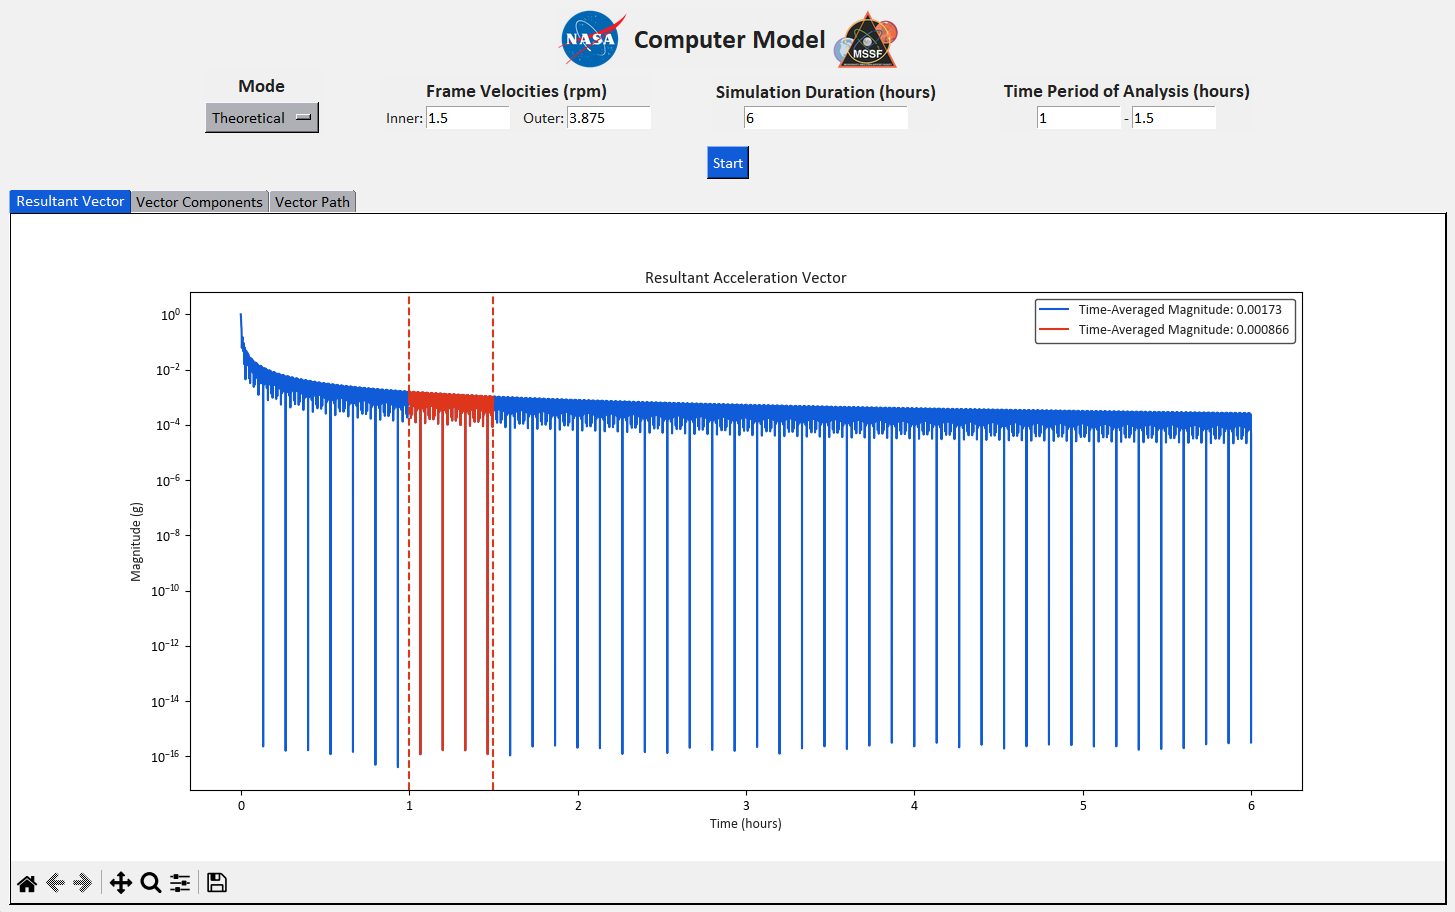
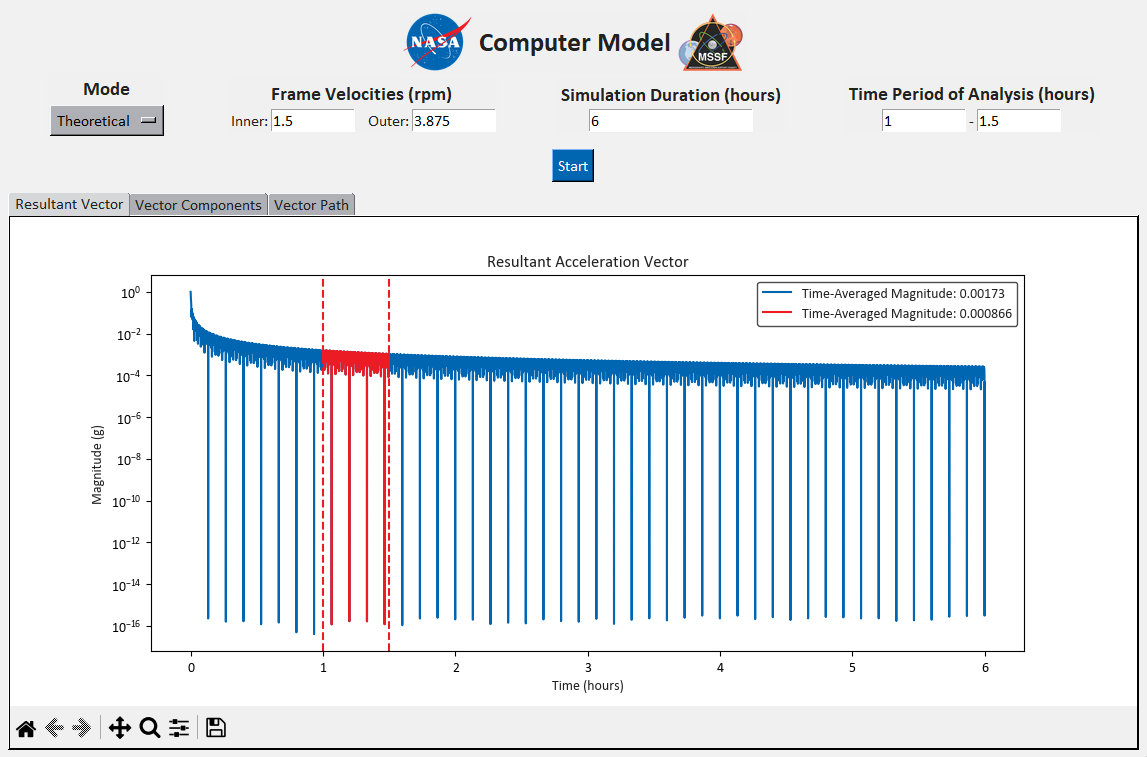
Updated colors

diff --git a/gui.py b/gui.py
@@ -137,7 +137,7 @@ class GUI:
         self.endAnalysis_entry_exp = tk.Entry(analysis_period_frame_exp, font=font_style, width=10)
         self.endAnalysis_entry_exp.pack(side=tk.LEFT)
 
-        self.submit_button = tk.Button(center_frame, text="Start", command=self.submit, font=font_style, bg="#105bd8", fg="#ffffff", activebackground="#007bff", activeforeground="#ffffff")
+        self.submit_button = tk.Button(center_frame, text="Start", command=self.submit, font=font_style, bg="#0066b2", fg="#ffffff", activebackground="#00a6d2", activeforeground="#ffffff")
         self.submit_button.grid(row=1, column=0, columnspan=4, pady=(10, 5))
 
         self.accelerometer_frame = tk.Frame(center_frame, padx=1, pady=1)
@@ -243,8 +243,8 @@ class GUI:
             "TNotebook": {"configure": {"tabmargins": [1, 0, 0, 0], "background": "#f1f1f1"}},
             "TNotebook.Tab": {
                 "configure": {"padding": [5, 1], "background": "#aeb0b5", "foreground": "#212121", "font": ("Calibri", 12), "focuscolor": ""},
-                "map": {"background": [("selected", "#105bd8")],
-                        "foreground": [("selected", "#ffffff")],
+                "map": {"background": [("selected", "#d6d7d9")],
+                        "foreground": [("selected", "#212121")],
                         "expand": [("selected", [1, 1, 1, 0])]}
             }
         })
@@ -369,18 +369,18 @@ class GUI:
         magnitude = np.sqrt(xTimeAvg**2 + yTimeAvg**2 + zTimeAvg**2)
         avgMagFull = np.mean(magnitude)
 
-        self.ax.plot(time_in_hours, magnitude, color='#105bd8', label="Time-Averaged Magnitude: " + f"{avgMagFull:.3g}")
+        self.ax.plot(time_in_hours, magnitude, color='#0066b2', label="Time-Averaged Magnitude: " + f"{avgMagFull:.3g}")
         self.ax.legend(edgecolor="#212121", labelcolor="#212121")
 
         if startAnalysis is not None and endAnalysis is not None:
             startSeg = next(i for i, t in enumerate(time_in_hours) if t >= startAnalysis)
             endSeg = next(i for i, t in enumerate(time_in_hours) if t >= endAnalysis)
 
-            self.ax.axvline(x=startAnalysis, color='#dd361c', linestyle='--')
-            self.ax.axvline(x=endAnalysis, color='#dd361c', linestyle='--')
+            self.ax.axvline(x=startAnalysis, color='#ec1c24', linestyle='--')
+            self.ax.axvline(x=endAnalysis, color='#ec1c24', linestyle='--')
 
             avgMagAnalysis = np.mean(magnitude[startSeg:endSeg])
-            self.ax.plot(time_in_hours[startSeg:endSeg], magnitude[startSeg:endSeg], color='#dd361c', label="Time-Averaged Magnitude: " + f"{avgMagAnalysis:.3g}")
+            self.ax.plot(time_in_hours[startSeg:endSeg], magnitude[startSeg:endSeg], color='#ec1c24', label="Time-Averaged Magnitude: " + f"{avgMagAnalysis:.3g}")
 
         self.ax.legend(edgecolor="#212121", labelcolor="#212121")
         self.ax.set_xlabel('Time (hours)', color="#212121")
@@ -388,7 +388,7 @@ class GUI:
         self.canvas.draw()
 
         self.path_ax.clear()
-        self.path_ax.plot(x, y, z, color='#105bd8', linewidth=1)
+        self.path_ax.plot(x, y, z, color='#0066b2', linewidth=1)
         self.path_ax.set_xlabel('X', color="#212121")
         self.path_ax.set_ylabel('Y', color="#212121")
         self.path_ax.set_zlabel('Z', color="#212121")
@@ -405,7 +405,7 @@ class GUI:
 
         self.path_ax_analysis.clear()
         if startAnalysis is not None and endAnalysis is not None:
-            self.path_ax_analysis.plot(x[startSeg:endSeg], y[startSeg:endSeg], z[startSeg:endSeg], color='#dd361c', linewidth=1)
+            self.path_ax_analysis.plot(x[startSeg:endSeg], y[startSeg:endSeg], z[startSeg:endSeg], color='#ec1c24', linewidth=1)
             self.path_ax_analysis.set_xlabel('X', color="#212121")
             self.path_ax_analysis.set_ylabel('Y', color="#212121")
             self.path_ax_analysis.set_zlabel('Z', color="#212121")
@@ -512,14 +512,14 @@ class GUI:
         
         self.ax.set_yscale('log')
         self.ax.set_title("Resultant Acceleration Vector", color="#212121")
-        self.ax.plot(fTime, magnitude, color='#105bd8', label="Time-Averaged Magnitude: " + f"{avgMagSeg:.3g}")
+        self.ax.plot(fTime, magnitude, color='#0066b2', label="Time-Averaged Magnitude: " + f"{avgMagSeg:.3g}")
         
         if startAnalysis is not None and endAnalysis is not None:
             startIndex = next(i for i, t in enumerate(fTime) if t >= startAnalysis)
             endIndex = next(i for i, t in enumerate(fTime) if t >= endAnalysis)
-            self.ax.axvline(x=startAnalysis, color='#dd361c', linestyle='--')
-            self.ax.axvline(x=endAnalysis, color='#dd361c', linestyle='--')
-            self.ax.plot(fTime[startIndex:endIndex], magnitude[startIndex:endIndex], color='#dd361c', label="Time-Averaged Magnitude: " + f"{avgMagAnalysis:.3g}")
+            self.ax.axvline(x=startAnalysis, color='#ec1c24', linestyle='--')
+            self.ax.axvline(x=endAnalysis, color='#ec1c24', linestyle='--')
+            self.ax.plot(fTime[startIndex:endIndex], magnitude[startIndex:endIndex], color='#ec1c24', label="Time-Averaged Magnitude: " + f"{avgMagAnalysis:.3g}")
         
         self.ax.legend(edgecolor="#212121", labelcolor="#212121")
         self.ax.set_xlabel('Time (hours)', color="#212121")
@@ -527,7 +527,7 @@ class GUI:
         self.canvas.draw()
 
         self.path_ax.clear()
-        self.path_ax.plot(analysis.x, analysis.y, analysis.z, color='#105bd8', linewidth=1)
+        self.path_ax.plot(analysis.x, analysis.y, analysis.z, color='#0066b2', linewidth=1)
         self.path_ax.set_xlabel('X', color="#212121")
         self.path_ax.set_ylabel('Y', color="#212121")
         self.path_ax.set_zlabel('Z', color="#212121")
@@ -547,7 +547,7 @@ class GUI:
         if startAnalysis is not None and endAnalysis is not None:
             startIndex = next(i for i, t in enumerate(fTime) if t >= startAnalysis)
             endIndex = next(i for i, t in enumerate(fTime) if t >= endAnalysis)
-            self.path_ax_analysis.plot(analysis.x[startIndex:endIndex], analysis.y[startIndex:endIndex], analysis.z[startIndex:endIndex], color='#dd361c', linewidth=1)
+            self.path_ax_analysis.plot(analysis.x[startIndex:endIndex], analysis.y[startIndex:endIndex], analysis.z[startIndex:endIndex], color='#ec1c24', linewidth=1)
             self.path_ax_analysis.set_xlabel('X', color="#212121")
             self.path_ax_analysis.set_ylabel('Y', color="#212121")
             self.path_ax_analysis.set_zlabel('Z', color="#212121")
@@ -575,8 +575,8 @@ class GUI:
         if title:
             self.components_ax.set_title('Acceleration Vector Components', color="#212121")
 
-        self.components_ax.plot(time_in_hours, xTimeAvg, label='X-Component', color='#105bd8')
-        self.components_ax.plot(time_in_hours, yTimeAvg, label='Y-Component', color='#dd361c')
+        self.components_ax.plot(time_in_hours, xTimeAvg, label='X-Component', color='#0066b2')
+        self.components_ax.plot(time_in_hours, yTimeAvg, label='Y-Component', color='#ec1c24')
         self.components_ax.plot(time_in_hours, zTimeAvg, label='Z-Component', color='#aeb0b5')
         self.components_ax.set_xlabel('Time (hours)', color="#212121")
         self.components_ax.set_ylabel('Magnitude (g)', color="#212121")
@@ -593,8 +593,8 @@ class GUI:
         if title:
             self.components_ax.set_title('Acceleration Vector Components', color="#212121")
 
-        self.components_ax.plot(time_in_hours, xTimeAvg, label='X-Component', color='#105bd8')
-        self.components_ax.plot(time_in_hours, yTimeAvg, label='Y-Component', color='#dd361c')
+        self.components_ax.plot(time_in_hours, xTimeAvg, label='X-Component', color='#0066b2')
+        self.components_ax.plot(time_in_hours, yTimeAvg, label='Y-Component', color='#ec1c24')
         self.components_ax.plot(time_in_hours, zTimeAvg, label='Z-Component', color='#aeb0b5')
         self.components_ax.set_xlabel('Time (hours)', color="#212121")
         self.components_ax.set_ylabel('Magnitude (g)', color="#212121")
